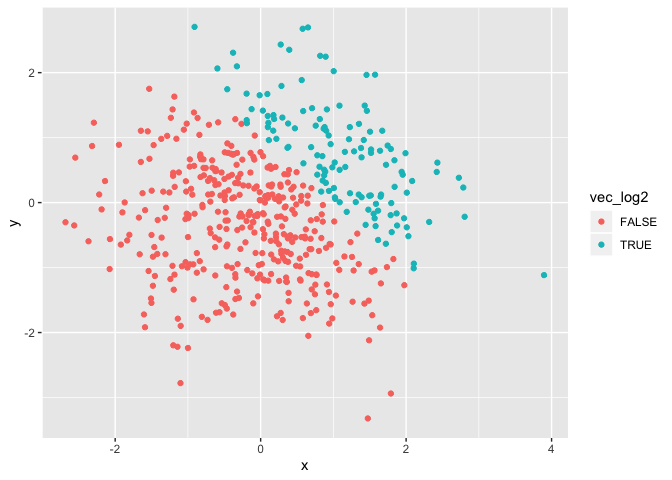
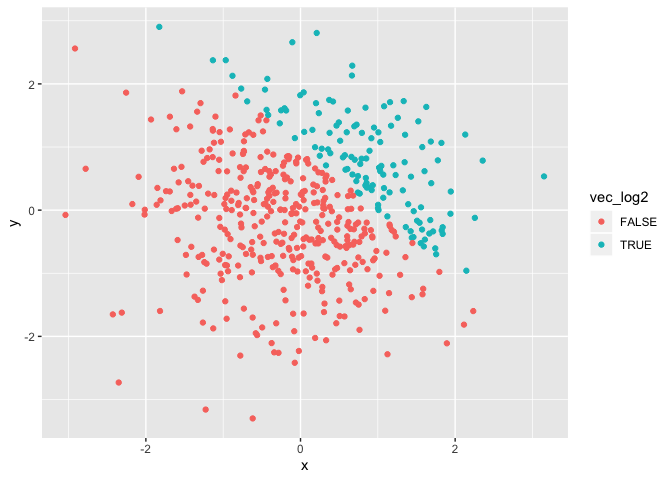
adding comments on color scale; change the structure (using bullet points)

diff --git a/hw1.md b/hw1.md
@@ -22,13 +22,13 @@ la_df= tibble(
 mean(pull(la_df, norm_samp))
 ```
 
-    ## [1] -0.01912714
+    ## [1] 0.1466755
 
 ``` r
 mean(pull(la_df, norm_samp_pos))
 ```
 
-    ## [1] 0.5
+    ## [1] 0.625
 
 ``` r
 mean(pull(la_df, vec_char))
@@ -48,21 +48,23 @@ mean(pull(la_df, vec_factor))
 
     ## [1] NA
 
-The mean of the numeric vector, norm\_samp, is -0.0191271; The mean of the logical vector, norm\_samp\_pos is 0.5; And NO mean could be taken for the character vector and factor vector.
+-   The mean of the numeric vector, norm\_samp, is 0.1466755;
+-   The mean of the logical vector, norm\_samp\_pos is 0.625;
+-   And NO mean could be taken for the character vector and factor vector.
 
 converting variables from one type to another
 ---------------------------------------------
 
 ``` r
-#covert the logical vector to numeric and multiply the random samnple by the result
+#convert the logical vector to numeric and multiply the random sample by the result
 as.numeric(pull(la_df, norm_samp_pos))*pull(la_df, norm_samp)
 ```
 
-    ## [1] 0.35516435 0.05999566 0.00000000 0.68948234 0.00000000 0.00000000
-    ## [7] 0.00000000 0.80262698
+    ## [1] 0.3204064 0.0000000 0.4680994 0.6571017 0.9321928 0.3065544 0.0000000
+    ## [8] 0.0000000
 
 ``` r
-#covert the logical vector to factor and multiply the random samnple by the result
+#convert the logical vector to factor and multiply the random sample by the result
 as.factor(pull(la_df, norm_samp_pos))*pull(la_df, norm_samp)
 ```
 
@@ -73,8 +75,8 @@ as.factor(pull(la_df, norm_samp_pos))*pull(la_df, norm_samp)
 as.numeric(as.factor(pull(la_df, norm_samp_pos)))*pull(la_df, norm_samp)
 ```
 
-    ## [1]  0.7103287  0.1199913 -0.2745172  1.3789647 -0.7905812 -0.5528112
-    ## [7] -0.4423769  1.6052540
+    ## [1]  0.6408127 -0.2963206  0.9361987  1.3142035  1.8643857  0.6131088
+    ## [7] -0.3448897 -0.8697400
 
 Problem 2
 =========
@@ -92,7 +94,14 @@ p2_df= tibble(
 Short descprition
 -----------------
 
-the number of row in `p2_df` is 500; the number of column in `p2_df` is 5; the mean of the x is 0.1012459; the mean of the y is -0.0817329; the median of the x is 0.1051246; the median of the y is -0.0730856; the standard deviation of x is 1.041212; the proportion of cases for which x + y &gt; 1 is 0.256;
+-   the number of row in `p2_df` is 500;
+-   the number of column in `p2_df` is 5;
+-   the mean of the x is 0.0108743;
+-   the mean of the y is 0.0203131;
+-   the median of the x is 0.0186161;
+-   the median of the y is 0.0307908;
+-   the standard deviation of x is 0.981596;
+-   the proportion of cases for which x + y &gt; 1 is 0.256;
 
 Scatterplot
 -----------
@@ -117,3 +126,15 @@ ggplot(p2_df, aes (x = x, y = y, color = vec_fac2)) + geom_point()
 ```
 
 ![](hw1_files/figure-markdown_github/problem2_part2-3.png)
+
+Comments on color scale
+-----------------------
+
+-   The first and third scatterplot have two color in the scale: one represnts TRUE and the other represents FALSE.
+-   The second scatterplot uses a blue color bar to represent different scale. Smaller values associate with darker blue while bigger numbers associate with lighter blue.
+
+``` r
+ggsave("Problem2_firstplot.pdf",plot = ggplot(p2_df, aes (x = x, y = y, color = vec_log2)) + geom_point())
+```
+
+    ## Saving 7 x 5 in image
